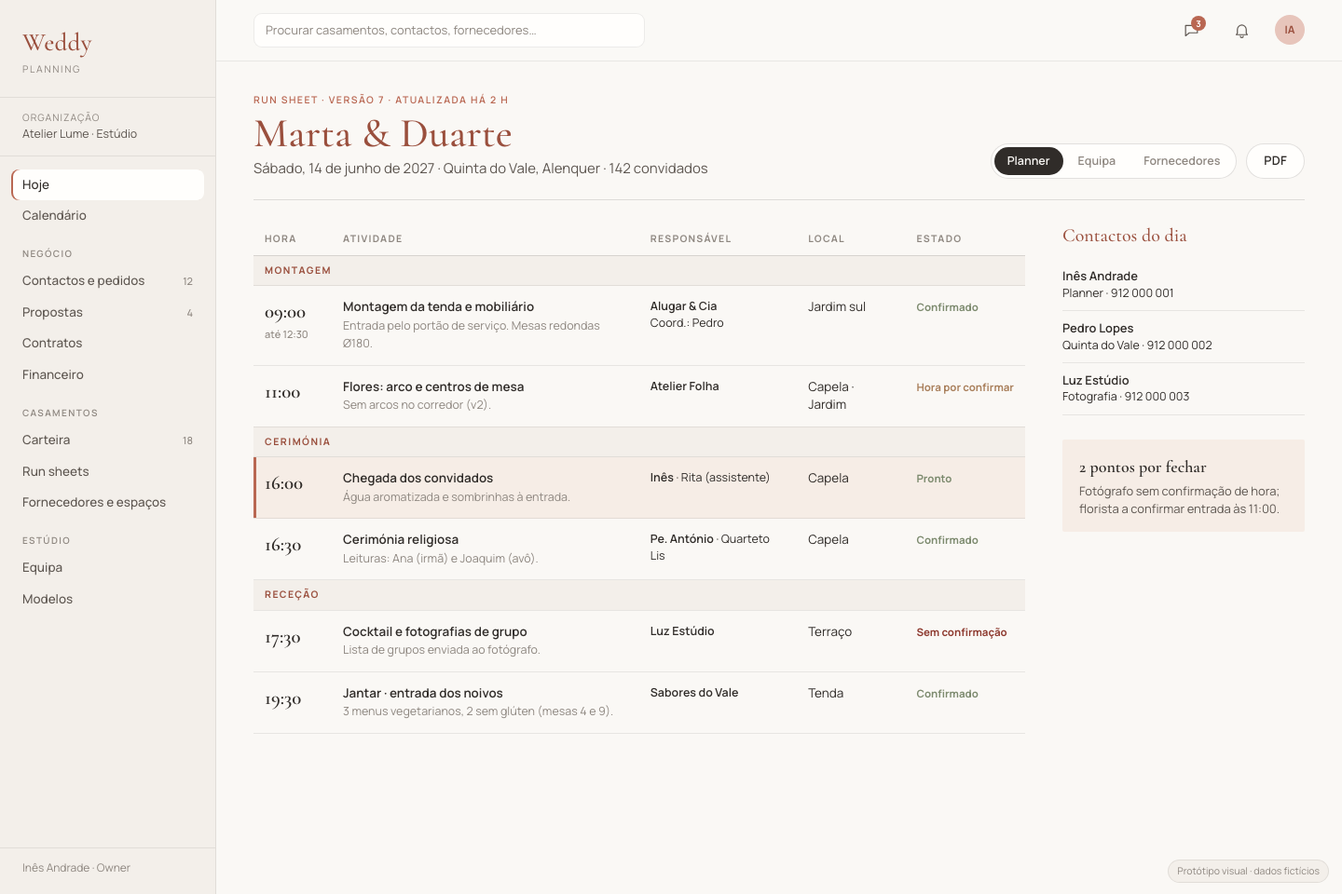
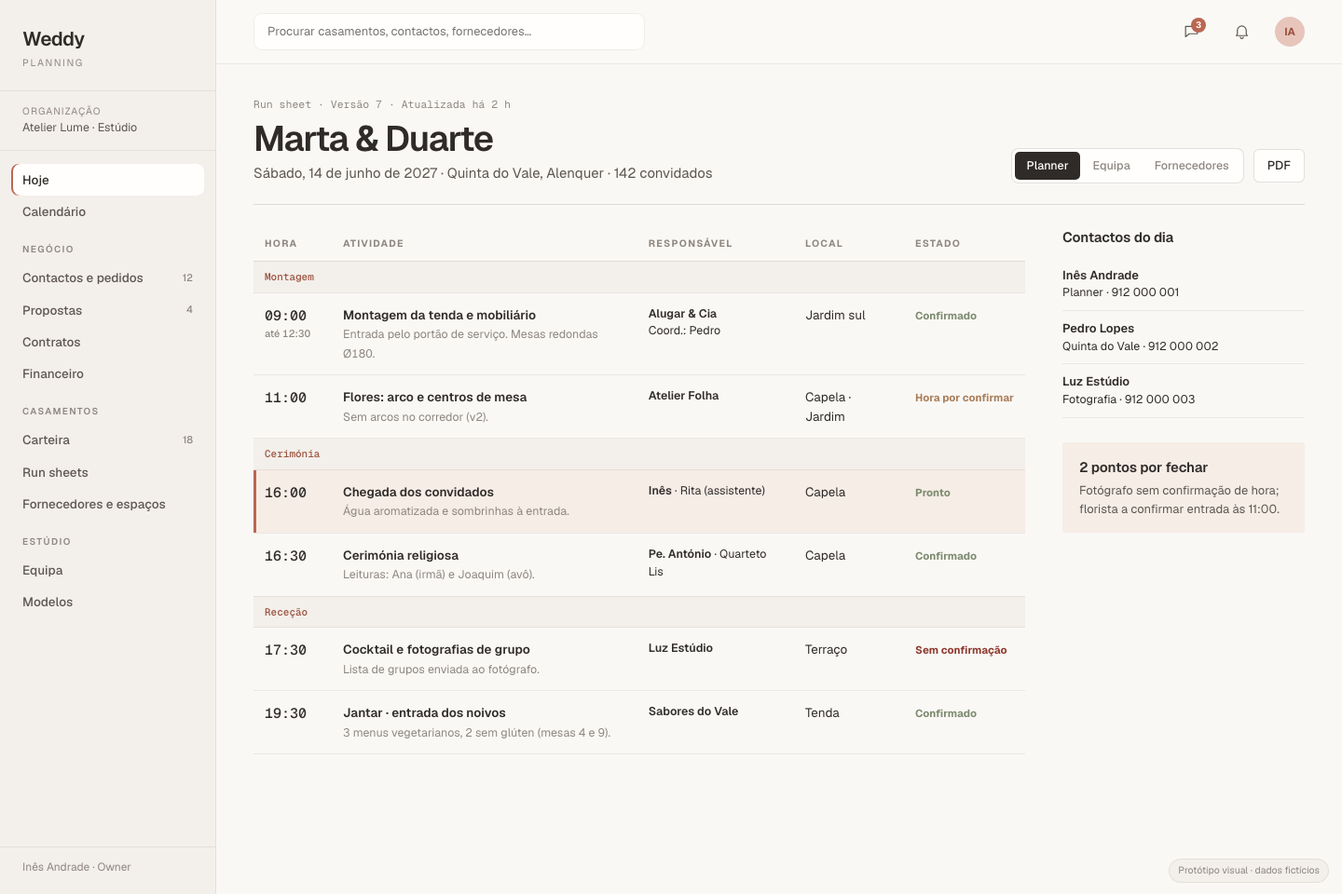
Weddy Planning — design minimalista (Geist), revisão /audit e /polish no protótipo
Regras das skills Taste minimalist, Impeccable e Vercel Web Interface
Guidelines aplicadas ao protótipo e ao Documento 5.

diff --git a/docs/planning/prototipos/index.html b/docs/planning/prototipos/index.html
@@ -5,11 +5,11 @@
 <meta name="viewport" content="width=device-width, initial-scale=1">
 <meta name="robots" content="noindex, nofollow">
 <title>Weddy Planning — protótipo visual</title>
+<meta name="theme-color" content="#FAF8F5">
+<link rel="preconnect" href="https://fonts.googleapis.com"><link rel="preconnect" href="https://fonts.gstatic.com" crossorigin>
+<link rel="stylesheet" href="https://fonts.googleapis.com/css2?family=Geist:wght@400;500;600;700&family=Geist+Mono:wght@400;500&display=swap">
 <!-- PROTÓTIPO ESTÁTICO DE DESIGN (Fase 0). Não é a aplicação. Dados fictícios. Sem Firebase, sem rede. -->
 <style>
-@font-face{font-family:'Cormorant Garamond';src:url(../../../fonts/cormorant-garamond.woff) format('woff');font-weight:300 700;font-style:normal;font-display:swap}
-@font-face{font-family:'Cormorant Garamond';src:url(../../../fonts/cormorant-garamond-italic.woff) format('woff');font-weight:300 700;font-style:italic;font-display:swap}
-@font-face{font-family:'Manrope';src:url(../../../fonts/manrope.woff) format('woff');font-weight:200 800;font-style:normal;font-display:swap}
 :root{
   /* Tokens herdados da Weddy Couples (DESIGN-SYSTEM.md §3) */
   --cream:#FAF8F5; --cream2:#F3EFEA; --card:#FFFDFC; --ink:#302C29; --ink-soft:#8E8780;
@@ -17,19 +17,21 @@
   --sage:#A8B39C; --sage-dark:#7C8A6E; --line:rgba(48,44,41,.09);
   /* Extensão Planning (proposta): superfície de trabalho mais densa e neutra */
   --paper:#FFFEFC; --rule:rgba(48,44,41,.14); --ink-2:#5E5751; --mark:#F6EDE6; --warn-bg:#FBEDEA; --ok-bg:#E8EEDF;
-  --serif:'Cormorant Garamond',Georgia,serif; --sans:'Manrope',-apple-system,BlinkMacSystemFont,sans-serif;
+  --serif:'Geist',-apple-system,BlinkMacSystemFont,'Helvetica Neue',sans-serif; --sans:'Geist',-apple-system,BlinkMacSystemFont,'Helvetica Neue',sans-serif; --mono:'Geist Mono',ui-monospace,'SF Mono',monospace;
+  --heading:#2F2B28; --line:rgba(48,44,41,.08); --btn:#2F2B28; --btn-h:#4A4440;
 }
 *{box-sizing:border-box}
-html,body{margin:0;background:var(--cream);color:var(--ink);font-family:var(--sans);font-size:13.5px;line-height:1.45;-webkit-font-smoothing:antialiased}
+html,body{margin:0;background:var(--cream);color:var(--ink);font-family:var(--sans);font-size:13.5px;line-height:1.5;-webkit-font-smoothing:antialiased;touch-action:manipulation;font-feature-settings:'ss01'}
+.skip{position:absolute;left:-999px;top:8px;z-index:20;background:var(--btn);color:#fff;padding:8px 12px;border-radius:6px}.skip:focus{left:12px}
 a{color:inherit;text-decoration:none}
-button{font:inherit;color:inherit;background:none;border:0;cursor:pointer}
+button{font:inherit;color:inherit;background:none;border:0;padding:0;cursor:pointer}
 :focus-visible{outline:2px solid var(--rust);outline-offset:2px}
 
 .shell{display:grid;grid-template-columns:232px 1fr;min-height:100vh}
 /* Barra lateral: tipográfica, sem ícones decorativos */
 .side{background:var(--cream2);border-right:1px solid var(--line);padding:26px 0 20px;display:flex;flex-direction:column;position:sticky;top:0;height:100vh}
 .brand{padding:0 24px 22px;border-bottom:1px solid var(--line)}
-.brand b{font-family:var(--serif);font-weight:500;font-size:27px;color:var(--heading);letter-spacing:.01em}
+.brand b{font-family:var(--serif);font-weight:600;font-size:21px;color:var(--ink);letter-spacing:-.03em}
 .brand small{display:block;font-size:10.5px;letter-spacing:.16em;text-transform:uppercase;color:var(--ink-soft);margin-top:2px}
 .org{padding:14px 24px;font-size:12.5px;color:var(--ink-2);border-bottom:1px solid var(--line)}
 .org span{display:block;font-size:10.5px;letter-spacing:.1em;text-transform:uppercase;color:var(--ink-soft)}
@@ -43,55 +45,60 @@ button{font:inherit;color:inherit;background:none;border:0;cursor:pointer}
 
 .main{min-width:0}
 .top{display:flex;align-items:center;gap:18px;padding:14px 40px;border-bottom:1px solid var(--line);background:rgba(250,248,245,.92);position:sticky;top:0;z-index:2;backdrop-filter:blur(6px)}
-.search{flex:1;min-width:0;white-space:nowrap;overflow:hidden;text-overflow:ellipsis;max-width:420px;border:1px solid var(--line);background:var(--paper);border-radius:9px;padding:8px 12px;color:var(--ink-soft);font-size:13px}
+label.search{display:block;flex:1;min-width:0;white-space:nowrap;overflow:hidden;text-overflow:ellipsis;max-width:420px;border:1px solid var(--line);background:var(--paper);border-radius:9px;padding:8px 12px;color:var(--ink-soft);font-size:13px}
 .top .sp{flex:1}
+.search input{border:0;background:transparent;font:inherit;color:var(--ink);width:100%;outline:none}.search:focus-within{outline:2px solid var(--rust);outline-offset:2px}
+.sr{position:absolute;width:1px;height:1px;overflow:hidden;clip:rect(0 0 0 0)}
 .ibtn{position:relative;width:36px;height:36px;border-radius:50%;display:grid;place-items:center;color:var(--ink-2)}
 .ibtn:hover{background:rgba(48,44,41,.05)}
 .ibtn svg{width:19px;height:19px;stroke:currentColor;fill:none;stroke-width:1.5;stroke-linecap:round;stroke-linejoin:round}
 .ibtn .n{position:absolute;top:3px;right:2px;min-width:16px;height:16px;border-radius:8px;background:var(--rust);color:#fff;font-size:9.5px;font-weight:700;display:grid;place-items:center;padding:0 4px}
-.avatar{width:32px;height:32px;border-radius:50%;background:var(--blush);display:grid;place-items:center;font-size:11.5px;font-weight:700;color:var(--rust-dark)}
+.avatar{font-variant-numeric:tabular-nums;width:32px;height:32px;border-radius:50%;background:var(--blush);display:grid;place-items:center;font-size:11.5px;font-weight:700;color:var(--rust-dark)}
 
 .page{padding:34px 40px 60px;max-width:1280px}
-.eyebrow{font-size:10.5px;letter-spacing:.14em;text-transform:uppercase;color:var(--rust);font-weight:600}
-h1{font-family:var(--serif);font-weight:500;font-size:44px;line-height:1.02;color:var(--heading);margin:6px 0 4px;letter-spacing:.002em}
-h2{font-family:var(--serif);font-weight:500;font-size:25px;color:var(--heading);margin:0;line-height:1.1}
+.eyebrow{font-family:var(--mono);font-size:11.5px;letter-spacing:0;color:var(--ink-soft);font-weight:400}
+h1{font-family:var(--serif);font-weight:600;font-size:38px;line-height:1.08;color:var(--heading);margin:8px 0 6px;letter-spacing:-.035em;text-wrap:balance}
+h2{font-family:var(--serif);font-weight:600;font-size:18px;color:var(--heading);margin:0;line-height:1.2;letter-spacing:-.02em}
 .lede{color:var(--ink-2);font-size:15px;margin:0}
 .hdr{display:flex;align-items:flex-end;justify-content:space-between;gap:24px;padding-bottom:22px;border-bottom:1px solid var(--rule)}
-.btn{display:inline-flex;align-items:center;gap:8px;height:38px;padding:0 18px;border-radius:99px;font-weight:600;font-size:13px;letter-spacing:.02em}
-.btn.p{background:var(--rust);color:#fff}
-.btn.s{border:1px solid var(--rule);background:var(--paper)}
+.btn{display:inline-flex;align-items:center;gap:8px;height:36px;padding:0 14px;border-radius:6px;font-weight:500;font-size:13px;transition:background-color .15s,border-color .15s,transform .1s}
+.btn:active{transform:scale(.98)}
+.btn.p{background:var(--btn);color:#fff}.btn.p:hover{background:var(--btn-h)}
+.btn.s{border:1px solid var(--rule);background:var(--paper)}.btn.s:hover{border-color:rgba(48,44,41,.3)}
 .tabs{display:flex;gap:22px;margin-top:14px}
-.tabs a{padding:8px 0;font-weight:600;color:var(--ink-soft);border-bottom:2px solid transparent}
-.tabs a[aria-current]{color:var(--ink);border-color:var(--rust)}
+.tabs button{padding:8px 0;font-weight:500;color:var(--ink-soft);border-bottom:2px solid transparent;min-height:36px}
+.tabs button:hover{color:var(--ink)}
+.tabs button[aria-current]{color:var(--ink);border-color:var(--rust)}
 
 /* ===== HOJE (dashboard editorial: uma coluna de leitura + margem) ===== */
 .today{display:grid;grid-template-columns:minmax(0,1.6fr) minmax(280px,1fr);gap:48px;margin-top:28px}
 .figures{display:flex;gap:0;border-top:1px solid var(--rule);border-bottom:1px solid var(--rule);margin:26px 0 0}
 .fig{flex:1;padding:16px 18px 14px;border-left:1px solid var(--line)}
 .fig:first-child{border-left:0;padding-left:0}
-.fig b{display:block;font-family:var(--serif);font-weight:500;font-size:34px;color:var(--heading);line-height:1}
+.fig b{display:block;font-family:var(--serif);font-weight:600;font-size:28px;color:var(--ink);line-height:1.1;letter-spacing:-.03em;font-variant-numeric:tabular-nums}
 .fig span{font-size:12px;color:var(--ink-soft)}
 .fig i{font-style:normal;font-size:11.5px;color:var(--sage-dark);font-weight:600}
 .sec{margin-top:34px}
 .sec-h{display:flex;align-items:baseline;justify-content:space-between;margin-bottom:6px}
-.sec-h a{font-size:12.5px;color:var(--rust);font-weight:600}
+.sec-h a{font-size:12.5px;color:var(--rust);font-weight:500;display:inline-flex;align-items:center;min-height:28px}
 .risk{list-style:none;margin:0;padding:0}
 .risk li{display:grid;grid-template-columns:86px 1fr auto;gap:16px;align-items:baseline;padding:13px 0;border-bottom:1px solid var(--line)}
-.risk .lvl{font-size:10.5px;letter-spacing:.1em;text-transform:uppercase;font-weight:700}
+.risk .lvl{font-family:var(--mono);font-size:11px;font-weight:500}
 .lvl.hi{color:#8E3A2F}.lvl.md{color:#A97F5B}.lvl.lo{color:var(--sage-dark)}
 .risk strong{font-weight:600}
 .risk .w{color:var(--ink-soft);font-size:12.5px}
-.risk .act{font-size:12.5px;color:var(--rust);font-weight:600;white-space:nowrap}
+.risk .act{font-size:12.5px;color:var(--rust);font-weight:500;white-space:nowrap;display:inline-flex;align-items:center;min-height:32px;justify-self:end}
+.risk .act:hover,.sec-h a:hover{text-decoration:underline;text-underline-offset:3px}
 .wed{list-style:none;margin:0;padding:0}
 .wed li{display:grid;grid-template-columns:64px 1fr 120px;gap:16px;padding:14px 0;border-bottom:1px solid var(--line);align-items:center}
-.date b{display:block;font-family:var(--serif);font-size:28px;font-weight:500;line-height:.9;color:var(--ink)}
+.date b{display:block;font-family:var(--serif);font-size:22px;font-weight:600;line-height:1;color:var(--ink);letter-spacing:-.03em;font-variant-numeric:tabular-nums}
 .date span{font-size:10.5px;letter-spacing:.12em;text-transform:uppercase;color:var(--ink-soft)}
-.wed strong{font-family:var(--serif);font-size:19px;font-weight:600}
+.wed strong{font-family:var(--serif);font-size:15px;font-weight:600;letter-spacing:-.01em}
 .wed .meta{font-size:12px;color:var(--ink-soft)}
 .prog{height:4px;border-radius:2px;background:var(--line);overflow:hidden}
 .prog i{display:block;height:100%;background:var(--rust)}
 .prog-l{font-size:11px;color:var(--ink-soft);margin-top:5px;text-align:right}
-.margin h3{font-family:var(--serif);font-weight:500;font-size:21px;color:var(--heading);margin:0 0 4px}
+.margin h3{font-family:var(--serif);font-weight:600;font-size:15px;letter-spacing:-.01em;color:var(--heading);margin:0 0 4px}
 .agenda{list-style:none;margin:0 0 30px;padding:0;border-left:1px solid var(--rule)}
 .agenda li{position:relative;padding:0 0 16px 18px}
 .agenda li::before{content:"";position:absolute;left:-4px;top:6px;width:7px;height:7px;border-radius:50%;background:var(--cream);border:1.5px solid var(--rust)}
@@ -99,21 +106,21 @@ h2{font-family:var(--serif);font-weight:500;font-size:25px;color:var(--heading);
 .agenda p{margin:1px 0 0}
 .agenda small{color:var(--ink-soft)}
 .note{background:var(--mark);border-radius:2px;padding:16px 18px;font-size:13px;color:var(--ink-2)}
-.note b{display:block;font-family:var(--serif);font-size:18px;font-weight:600;color:var(--ink);margin-bottom:4px}
-.ai{display:flex;gap:8px;align-items:center;font-size:10.5px;letter-spacing:.12em;text-transform:uppercase;color:var(--rust);font-weight:700;margin-bottom:6px}
+.note b{display:block;font-family:var(--serif);font-size:15px;font-weight:600;letter-spacing:-.01em;color:var(--ink);margin-bottom:4px}
+.ai{display:flex;gap:8px;align-items:center;font-family:var(--mono);font-size:11.5px;color:var(--rust);font-weight:400;margin-bottom:6px}
 
 /* ===== CRM (pipeline em colunas finas, não cartões pesados) ===== */
 .pipe{display:grid;grid-template-columns:repeat(6,minmax(170px,1fr));gap:0;margin-top:24px;border-top:1px solid var(--rule)}
 .col{border-left:1px solid var(--line);padding:14px 14px 20px;min-height:520px}
 .col:first-child{border-left:0;padding-left:0}
 .col-h{display:flex;justify-content:space-between;align-items:baseline;margin-bottom:12px}
-.col-h b{font-size:11px;letter-spacing:.12em;text-transform:uppercase;font-weight:700;color:var(--ink-2)}
-.col-h span{font-family:var(--serif);font-size:20px;color:var(--ink-soft)}
+.col-h b{font-size:12px;font-weight:600;color:var(--ink)}
+.col-h span{font-family:var(--mono);font-size:12px;color:var(--ink-soft);font-variant-numeric:tabular-nums}
 .lead{padding:12px 0 12px;border-bottom:1px solid var(--line)}
 .lead strong{display:block;font-weight:600;font-size:13.5px}
 .lead .m{font-size:12px;color:var(--ink-soft)}
 .lead .v{display:flex;justify-content:space-between;margin-top:6px;font-size:12px}
-.lead .v b{font-weight:700}
+.lead .v b{font-weight:600;font-variant-numeric:tabular-nums}
 .tag{display:inline-block;font-size:10.5px;padding:2px 8px;border-radius:99px;background:var(--cream2);color:var(--ink-2);font-weight:600}
 .tag.w{background:var(--warn-bg);color:#8E3A2F}
 .tag.g{background:var(--ok-bg);color:#5F7355}
@@ -121,24 +128,25 @@ h2{font-family:var(--serif);font-weight:500;font-size:25px;color:var(--heading);
 
 /* ===== RUN SHEET (documento operacional) ===== */
 .rs-wrap{display:grid;grid-template-columns:minmax(0,1fr) 260px;gap:40px;margin-top:24px}
-.views{display:flex;border:1px solid var(--rule);border-radius:99px;padding:3px;gap:2px;background:var(--paper)}
-.views a{padding:6px 14px;border-radius:99px;font-size:12.5px;font-weight:600;color:var(--ink-soft)}
-.views a[aria-current]{background:var(--ink);color:var(--cream)}
-table.rs{width:100%;border-collapse:collapse}
+.views{display:flex;border:1px solid var(--rule);border-radius:8px;padding:3px;gap:2px;background:var(--paper)}
+.views button{padding:6px 12px;border-radius:5px;font-size:12.5px;font-weight:500;color:var(--ink-soft);min-height:30px}
+.views button:hover{color:var(--ink)}
+.views button[aria-pressed=true]{background:var(--btn);color:#fff}
+table.rs{width:100%;border-collapse:collapse;font-variant-numeric:tabular-nums}
 .rs th{text-align:left;font-size:10.5px;letter-spacing:.12em;text-transform:uppercase;color:var(--ink-soft);font-weight:700;padding:10px 12px;border-bottom:1px solid var(--rule)}
 .rs td{padding:13px 12px;border-bottom:1px solid var(--line);vertical-align:top}
-.rs td.t{font-family:var(--serif);font-size:21px;font-weight:600;white-space:nowrap;width:84px;color:var(--ink)}
+.rs td.t{font-family:var(--mono);font-size:15px;font-weight:500;font-variant-numeric:tabular-nums;white-space:nowrap;width:84px;color:var(--ink)}
 .rs td.t small{display:block;font-family:var(--sans);font-size:11px;font-weight:500;color:var(--ink-soft)}
 .rs .act strong{font-weight:600;display:block}
 .rs .act span{color:var(--ink-soft);font-size:12.5px}
 .rs .who{font-size:12.5px}
 .rs .who b{font-weight:600}
-.rs tr.phase td{background:var(--cream2);font-size:10.5px;letter-spacing:.14em;text-transform:uppercase;font-weight:700;color:var(--rust-dark);padding:8px 12px}
+.rs tr.phase td{background:var(--cream2);font-family:var(--mono);font-size:11px;font-weight:500;color:var(--rust-dark);padding:8px 12px}
 .rs tr.now td{background:var(--mark)}
 .rs tr.now td.t{box-shadow:inset 3px 0 0 var(--rust)}
 .st{font-size:11.5px;font-weight:700;white-space:nowrap}
 .st.ok{color:var(--sage-dark)}.st.pend{color:#A97F5B}.st.no{color:#8E3A2F}
-.aside h3{font-family:var(--serif);font-weight:500;font-size:20px;color:var(--heading);margin:0 0 10px}
+.aside h3{font-family:var(--serif);font-weight:600;font-size:15px;letter-spacing:-.01em;color:var(--heading);margin:0 0 10px}
 .contacts{list-style:none;margin:0 0 26px;padding:0}
 .contacts li{padding:9px 0;border-bottom:1px solid var(--line);font-size:12.5px}
 .contacts b{display:block;font-weight:600;font-size:13px}
@@ -147,9 +155,10 @@ table.rs{width:100%;border-collapse:collapse}
 .chat{display:grid;grid-template-columns:300px minmax(0,1fr) 270px;height:calc(100vh - 65px);border-top:0}
 .threads{border-right:1px solid var(--line);overflow:auto;background:var(--cream)}
 .threads .h{padding:22px 20px 10px}
-.th{display:block;padding:13px 20px;border-bottom:1px solid var(--line)}
+.th{display:block;width:100%;text-align:left;padding:13px 20px;border-bottom:1px solid var(--line)}
+.th:hover{background:rgba(48,44,41,.03)}
 .th[aria-current]{background:var(--paper);box-shadow:inset 3px 0 0 var(--rust)}
-.th strong{font-family:var(--serif);font-size:18px;font-weight:600;display:flex;justify-content:space-between;align-items:center}
+.th strong{font-family:var(--serif);font-size:14px;font-weight:600;display:flex;justify-content:space-between;align-items:center}
 .th strong i{font-style:normal;font-family:var(--sans);font-size:10px;background:var(--rust);color:#fff;border-radius:9px;padding:1px 6px;font-weight:700}
 .th p{margin:2px 0 0;font-size:12.5px;color:var(--ink-soft);white-space:nowrap;overflow:hidden;text-overflow:ellipsis}
 .conv{display:flex;flex-direction:column;min-width:0;background:var(--paper)}
@@ -170,7 +179,7 @@ table.rs{width:100%;border-collapse:collapse}
 .compose{border-top:1px solid var(--line);padding:14px 28px;display:flex;gap:12px;align-items:center}
 .compose div{flex:1;border:1px solid var(--rule);border-radius:12px;padding:11px 14px;color:var(--ink-soft)}
 .info{border-left:1px solid var(--line);padding:22px 20px;overflow:auto}
-.info h3{font-family:var(--serif);font-weight:500;font-size:19px;color:var(--heading);margin:0 0 8px}
+.info h3{font-family:var(--serif);font-weight:600;font-size:14px;color:var(--heading);margin:0 0 8px}
 .info ul{list-style:none;margin:0 0 22px;padding:0}
 .info li{padding:8px 0;border-bottom:1px solid var(--line);font-size:12.5px}
 .info li b{display:block;font-weight:600}
@@ -188,6 +197,7 @@ table.rs{width:100%;border-collapse:collapse}
 </style>
 </head>
 <body>
+<a class="skip" href="#conteudo">Saltar para o conteúdo</a>
 <div class="shell">
   <aside class="side" aria-label="Navegação principal">
     <div class="brand"><b>Weddy</b><small>Planning</small></div>
@@ -211,12 +221,12 @@ table.rs{width:100%;border-collapse:collapse}
     <div class="me-side">Inês Andrade · Owner</div>
   </aside>
 
-  <div class="main">
+  <main class="main" id="conteudo">
     <header class="top">
-      <div class="search">Procurar casamentos, contactos, fornecedores…</div>
+      <label class="search"><span class="sr">Procurar</span><input type="search" name="q" autocomplete="off" placeholder="Procurar casamentos, contactos, fornecedores…"></label>
       <span class="sp"></span>
-      <a class="ibtn" href="#conversas" aria-label="Conversas, 3 por ler"><svg viewBox="0 0 24 24"><path d="M4 5.5h16v10H9l-5 4z"/></svg><span class="n">3</span></a>
-      <button class="ibtn" aria-label="Notificações"><svg viewBox="0 0 24 24"><path d="M6 16V11a6 6 0 0 1 12 0v5l1.5 2h-15z"/><path d="M10 20a2 2 0 0 0 4 0"/></svg></button>
+      <a class="ibtn" href="#conversas" aria-label="Conversas, 3 por ler"><svg viewBox="0 0 24 24" aria-hidden="true" focusable="false"><path d="M4 5.5h16v10H9l-5 4z"/></svg><span class="n">3</span></a>
+      <button type="button" class="ibtn" aria-label="Notificações"><svg viewBox="0 0 24 24" aria-hidden="true" focusable="false"><path d="M6 16V11a6 6 0 0 1 12 0v5l1.5 2h-15z"/><path d="M10 20a2 2 0 0 0 4 0"/></svg></button>
       <span class="avatar" aria-hidden="true">IA</span>
     </header>
 
@@ -225,10 +235,10 @@ table.rs{width:100%;border-collapse:collapse}
       <div class="chat">
         <div class="threads">
           <div class="h"><div class="eyebrow">Weddy Conversations</div><h2>Conversas</h2></div>
-          <a class="th" aria-current="true"><strong>Marta &amp; Duarte <i>2</i></strong><p>Marta: Podemos fechar a florista amanhã?</p></a>
-          <a class="th"><strong>Sofia &amp; Tomás <i>1</i></strong><p>Tomás: Enviei a lista final de transportes</p></a>
-          <a class="th"><strong>Leonor &amp; Miguel</strong><p>Tu: Ementa aprovada, obrigada!</p></a>
-          <a class="th"><strong>Carolina &amp; Rui</strong><p>Rui: Ficamos com a quinta em Sintra</p></a>
+          <button type="button" class="th" aria-current="true"><strong>Marta &amp; Duarte <i>2</i></strong><p>Marta: Podemos fechar a florista amanhã?</p></button>
+          <button type="button" class="th"><strong>Sofia &amp; Tomás <i>1</i></strong><p>Tomás: Enviei a lista final de transportes</p></button>
+          <button type="button" class="th"><strong>Leonor &amp; Miguel</strong><p>Tu: Ementa aprovada, obrigada!</p></button>
+          <button type="button" class="th"><strong>Carolina &amp; Rui</strong><p>Rui: Ficamos com a quinta em Sintra</p></button>
         </div>
         <div class="conv">
           <div class="conv-h"><div><h2 style="font-size:22px">Marta &amp; Duarte</h2><small>14 de junho de 2027 · Quinta do Vale, Alenquer · 4 participantes</small></div><a class="btn s" href="#conversas">Exportar PDF</a></div>
@@ -256,7 +266,7 @@ table.rs{width:100%;border-collapse:collapse}
       <div class="page">
         <div class="hdr">
           <div><div class="eyebrow">Run sheet · Versão 7 · Atualizada há 2 h</div><h1>Marta &amp; Duarte</h1><p class="lede">Sábado, 14 de junho de 2027 · Quinta do Vale, Alenquer · 142 convidados</p></div>
-          <div style="display:flex;gap:10px;align-items:center"><nav class="views" aria-label="Vista"><a aria-current="true">Planner</a><a>Equipa</a><a>Fornecedores</a></nav><a class="btn s">PDF</a></div>
+          <div style="display:flex;gap:10px;align-items:center"><nav class="views" aria-label="Vista"><button type="button" aria-pressed="true">Planner</button><button type="button" aria-pressed="false">Equipa</button><button type="button" aria-pressed="false">Fornecedores</button></nav><button type="button" class="btn s">PDF</button></div>
         </div>
         <div class="rs-wrap">
           <table class="rs">
@@ -287,9 +297,9 @@ table.rs{width:100%;border-collapse:collapse}
       <div class="page">
         <div class="hdr">
           <div><div class="eyebrow">Negócio</div><h1>Contactos e pedidos</h1><p class="lede">12 pedidos ativos · 86 400 € em propostas abertas</p></div>
-          <div style="display:flex;gap:10px"><a class="btn s">Formulário público</a><a class="btn p">Novo pedido</a></div>
+          <div style="display:flex;gap:10px"><button type="button" class="btn s">Formulário público</button><button type="button" class="btn p">Novo pedido</button></div>
         </div>
-        <div class="tabs"><a aria-current="true">Pipeline</a><a>Lista</a><a>Perdidos</a></div>
+        <div class="tabs" role="tablist"><button type="button" role="tab" aria-selected="true" aria-current="true">Pipeline</button><button type="button" role="tab" aria-selected="false">Lista</button><button type="button" role="tab" aria-selected="false">Perdidos</button></div>
         <div class="pipe">
           <div class="col"><div class="col-h"><b>Novo</b><span>4</span></div>
             <div class="lead"><strong>Beatriz &amp; Nuno</strong><div class="m">Set. 2027 · Douro · ~120</div><div class="v"><span class="tag">Instagram</span><b>18–22 k€</b></div></div>
@@ -314,7 +324,7 @@ table.rs{width:100%;border-collapse:collapse}
       <div class="page">
         <div class="hdr">
           <div><div class="eyebrow">Terça-feira, 16 de novembro</div><h1>Bom dia, Inês.</h1><p class="lede">Três casamentos precisam de ti esta semana.</p></div>
-          <a class="btn p">Novo casamento</a>
+          <button type="button" class="btn p">Novo casamento</button>
         </div>
         <div class="figures">
           <div class="fig"><b>18</b><span>casamentos ativos</span></div>
@@ -328,10 +338,10 @@ table.rs{width:100%;border-collapse:collapse}
               <div class="sec-h"><h2>Precisa de atenção</h2><a href="#hoje">Radar completo</a></div>
               <ul class="risk">
                 <li><span class="lvl hi">Crítico</span><div><strong>Fotógrafo sem confirmação</strong><div class="w">Marta &amp; Duarte · faltam 30 dias</div></div><a class="act" href="#runsheet">Abrir run sheet</a></li>
-                <li><span class="lvl hi">Crítico</span><div><strong>Orçamento ultrapassado em 8 %</strong><div class="w">Sofia &amp; Tomás · Decoração</div></div><a class="act">Rever</a></li>
+                <li><span class="lvl hi">Crítico</span><div><strong>Orçamento ultrapassado em 8 %</strong><div class="w">Sofia &amp; Tomás · Decoração</div></div><button type="button" class="act">Rever</button></li>
                 <li><span class="lvl md">Atenção</span><div><strong>Ementa à espera de aprovação há 6 dias</strong><div class="w">Leonor &amp; Miguel</div></div><a class="act" href="#conversas">Lembrar</a></li>
-                <li><span class="lvl md">Atenção</span><div><strong>2.ª prestação vence sexta-feira</strong><div class="w">Carolina &amp; Rui · 3 200 €</div></div><a class="act">Ver plano</a></li>
-                <li><span class="lvl lo">Lembrete</span><div><strong>Prova de menu sem responsável</strong><div class="w">Beatriz &amp; Nuno · 2 dez</div></div><a class="act">Atribuir</a></li>
+                <li><span class="lvl md">Atenção</span><div><strong>2.ª prestação vence sexta-feira</strong><div class="w">Carolina &amp; Rui · 3 200 €</div></div><button type="button" class="act">Ver plano</button></li>
+                <li><span class="lvl lo">Lembrete</span><div><strong>Prova de menu sem responsável</strong><div class="w">Beatriz &amp; Nuno · 2 dez</div></div><button type="button" class="act">Atribuir</button></li>
               </ul>
             </div>
             <div class="sec">
@@ -352,12 +362,12 @@ table.rs{width:100%;border-collapse:collapse}
                 <li><time>18:30</time><p>Prova de vinhos · Marta &amp; Duarte</p><small>Rita acompanha</small></li>
               </ul>
             </div>
-            <div class="note"><div class="ai">✦ Weddy Intelligence</div><b>Preparar a reunião das 15:00?</b>Junto a proposta v3, as respostas ao questionário e as 4 perguntas que ficaram em aberto. Nada é enviado sem confirmares.</div>
+            <div class="note"><div class="ai">Weddy Intelligence</div><b>Preparar a reunião das 15:00?</b>Junto a proposta v3, as respostas ao questionário e as 4 perguntas que ficaram em aberto. Nada é enviado sem confirmares.</div>
           </aside>
         </div>
       </div>
     </section>
-  </div>
+  </main>
 </div>
 <div class="proto">Protótipo visual · dados fictícios</div>
 </body>

diff --git a/docs/planning/05-design-system.md b/docs/planning/05-design-system.md
@@ -1,8 +1,8 @@
 # Documento 5 — Design System da Weddy Planning
 
-Base: `docs/design/DESIGN-SYSTEM.md` (extraído do código real da Couples). A Planning **estende** esse sistema: mantém as fontes, a paleta e o tom, mas é uma ferramenta de trabalho **desktop-first**, mais densa e tipográfica. Protótipo visual estático: `docs/planning/prototipos/index.html` (dados fictícios) e capturas em `docs/planning/prototipos/capturas/`.
+Base: `docs/design/DESIGN-SYSTEM.md` (extraído do código real da Couples). A Planning **estende** esse sistema: mantém a paleta e o tom, mas é uma ferramenta de trabalho **desktop-first**, mais densa, com **tipografia sans geométrica minimalista** (revisão de 17/11, a pedido da Rita: as serifas deixam de ser usadas na Planning; a Couples não muda). Protótipo visual estático: `docs/planning/prototipos/index.html` (dados fictícios) e capturas em `docs/planning/prototipos/capturas/`.
 
-Método: auditoria da identidade existente → extensão por padrões (formato "Extend" da skill `design:design-system`) → protótipo → capturas reais a 1440 px e 390 px → revisão visual e correções (3 rondas: conflito de classes, cabeçalho fixo a tapar o título, transbordo no telemóvel).
+Método: auditoria da identidade existente → extensão por padrões (formato "Extend" da skill `design:design-system`) → protótipo → capturas reais a 1440 px e 390 px → revisão visual e correções (3 rondas) → **revisão com as regras das skills Taste minimalist, Impeccable (/audit, /polish) e Vercel Web Interface Guidelines** (2 rondas: tipografia, botões, semântica, alvos de toque, algarismos tabulares).
 
 ## 1. Princípios
 
@@ -10,7 +10,7 @@ Método: auditoria da identidade existente → extensão por padrões (formato "
 2. **Cada página com a forma da sua função.** Calendário parece calendário; run sheet parece documento operacional; pipeline parece ferramenta comercial; proposta parece apresentação; conversa parece conversa.
 3. **Um acento.** Terracota (`--rust`) para ação e seleção. Estado nunca só por cor (sempre com texto).
 4. **Densidade profissional.** Texto base 13.5 px, linhas de 13 px de padding, tabelas reais. O planner vê mais informação por ecrã do que o casal.
-5. **Família reconhecível.** Mesmas fontes e paleta da Couples, para o casal e o planner sentirem o mesmo produto.
+5. **Família reconhecível.** Mesma paleta e tom da Couples (creme, terracota); tipografia própria, moderna e sóbria, adequada a uma ferramenta profissional.
 
 ## 2. Paleta
 
@@ -28,17 +28,20 @@ Extensão Planning (proposta, a aprovar — §3.3 da regra-mãe exige aprovaçã
 
 Cores de estado (texto): crítico `#8E3A2F`, atenção `#A97F5B` (`--joint-dark`), ok `--sage-dark`. Sem azuis, roxos ou gradientes.
 
-## 3. Tipografia
+## 3. Tipografia (revisão minimalista)
+
+Famílias: **Geist** (UI, títulos, números) e **Geist Mono** (horas, datas, contagens, metadados, eyebrows). Ambas no Google Fonts; a usar alojadas em `fonts/` na implementação (RGPD, como a Couples). Evitar Inter, Roboto e Open Sans (regra minimalist). Sem serifas na Planning.
 
 | Papel | Estilo |
 |---|---|
-| Título de página | Cormorant Garamond 500, **44 px**, `--heading`, line-height 1.02 (36 px no telemóvel) |
-| Título de secção | Cormorant 500, 25 px |
-| Nomes do casal / datas grandes / horas do run sheet | Cormorant 500–600, 19–34 px (algarismos de estilo antigo, editoriais) |
-| Eyebrow | Manrope 600, 10.5 px, maiúsculas, `letter-spacing:.14em`, `--rust` |
-| Texto base | Manrope 400/500, 13.5 px |
-| Cabeçalho de tabela / colunas | Manrope 700, 10.5–11 px, maiúsculas, `.12em`, `--ink-soft` |
-| Lede | Manrope 400, 15 px, `--ink-2` |
+| Título de página | Geist 600, **38 px**, `letter-spacing:-.035em`, line-height 1.08, `--heading` (#2F2B28, off-black, nunca #000) |
+| Título de secção | Geist 600, 18 px, `-.02em` |
+| Nomes / subtítulos de bloco | Geist 600, 14–15 px, `-.01em` |
+| Números-chave | Geist 600, 28 px, `-.03em`, `tabular-nums` |
+| Horas (run sheet), datas, contagens | Geist Mono 500, 12–15 px, `tabular-nums` |
+| Eyebrow / metadados | Geist Mono 400, 11.5 px, `--ink-soft`, sem maiúsculas forçadas |
+| Texto base | Geist 400/500, 13.5 px, line-height 1.5 |
+| Lede | Geist 400, 15 px, `--ink-2` |
 
 ## 4. Layout e navegação
 
@@ -62,7 +65,7 @@ Cores de estado (texto): crítico `#8E3A2F`, atenção `#A97F5B` (`--joint-dark`
 | **Conversa** | — | 3 colunas (lista · conversa · decisões/anexos); balões `--cream2` (outros) e `#F1E3DC` (eu); **decisão** como faixa sálvia sob a mensagem; anexo como ficha com tipo e tamanho; recibo de leitura por pessoa ("Lida por Marta · Por ler por Duarte") | enviada, lida por, editada (com revisão), importante |
 | **Nota da IA** | Chatbot flutuante | Bloco `--mark` com rótulo "✦ Weddy Intelligence", pergunta em serifa, explicação e "nada é enviado sem confirmares" | sugestão, a preparar, pronto, recusado |
 | **Etiqueta** | — | Pill 10.5 px; neutra `--cream2`, alerta `--warn-bg`, ok `--ok-bg` | — |
-| **Botões** | — | Os da Couples: primário pill terracota 38 px, secundário contorno `--rule` em `--paper`, link terracota | normal, hover, foco 2 px, desativado .5 |
+| **Botões** | Pills genéricos (padrão "IA") | Primário escuro `--btn #2F2B28`, texto branco, **36 px, raio 6 px**, sem sombra, hover `#4A4440`, `:active scale(.98)`; secundário contorno `--rule` em `--paper`; link terracota com sublinhado no hover. Pills só para etiquetas | normal, hover, foco 2 px, ativo, desativado .5 |
 
 Acessibilidade: foco visível 2 px `--rust`; botões só com ícone com `aria-label` (ex.: "Conversas, 3 por ler"); alvos ≥ 36 px em desktop e ≥ 44 px em toque; estado sempre com texto; contraste do texto essencial com `--ink`/`--ink-2`; `prefers-reduced-motion` respeitado em todas as transições (a Couples só o tem no Comparador).
 
@@ -82,6 +85,16 @@ Ainda por desenhar (Fase 2+): proposta pública (apresentação premium), calend
 Design system da Couples (`docs/design/DESIGN-SYSTEM.md`); padrões de mercado observados no Doc. 2 (radar de riscos e partilha por ferramenta no Journey 2 Yes; run sheets por vista no Planning Pod/Aisle Planner); tipografia editorial de publicações de casamento (serifa de alto contraste nos títulos, sans geométrica no corpo).
 
 ## 8. Skills de design utilizadas
+
+**Pedidas pela Rita a 17/11 e aplicadas** (regras lidas nos repositórios oficiais e aplicadas manualmente; nada instalado):
+- **Taste — minimalist-skill** ([Leonxlnx/taste-skill-classics](https://github.com/Leonxlnx/taste-skill-classics)): sans geométrica, tracking negativo nos títulos, off-black, cor escassa, botões 4–6 px, sombras quase invisíveis, sem emojis.
+- **Impeccable** ([pbakaus/impeccable](https://github.com/pbakaus/impeccable)): `/audit` (acessibilidade, theming, responsivo, integridade) e `/polish` (alinhamento, estados, consistência tipográfica, alvos de toque).
+- **Web Interface Guidelines** ([vercel-labs/web-interface-guidelines](https://github.com/vercel-labs/web-interface-guidelines)): botões reais em vez de `<a>` sem destino, `aria-hidden` nos ícones decorativos, link para saltar ao conteúdo, `tabular-nums`, `touch-action: manipulation`, `theme-color`, sem `transition: all`, campo de pesquisa com rótulo.
+
+Resultado verificado: fontes carregadas, 0 erros, 0 botões sem nome acessível, sem scroll horizontal a 390 px, alvos ≥ 28 px nas ligações de texto.
+
+Instalação: as três podem ser instaladas como skills (`npx skills add …`), mas são código de terceiros; recomendo rever o conteúdo antes e instalar só com a tua autorização expressa.
+
 
 - **Instaladas e usadas** (origem Anthropic, já ativas no ambiente): `design:design-system` (método de auditoria/extensão aplicado neste documento); `design:accessibility-review` e `design:design-critique` (para rever cada ecrã implementado na Fase 2); `design:ux-copy` (textos PT-PT).
 - **Pesquisa no catálogo da organização** (frontend design, UI/UX, dashboards SaaS, design systems, tipografia, responsivo, acessibilidade, qualidade visual): **sem resultados**.
